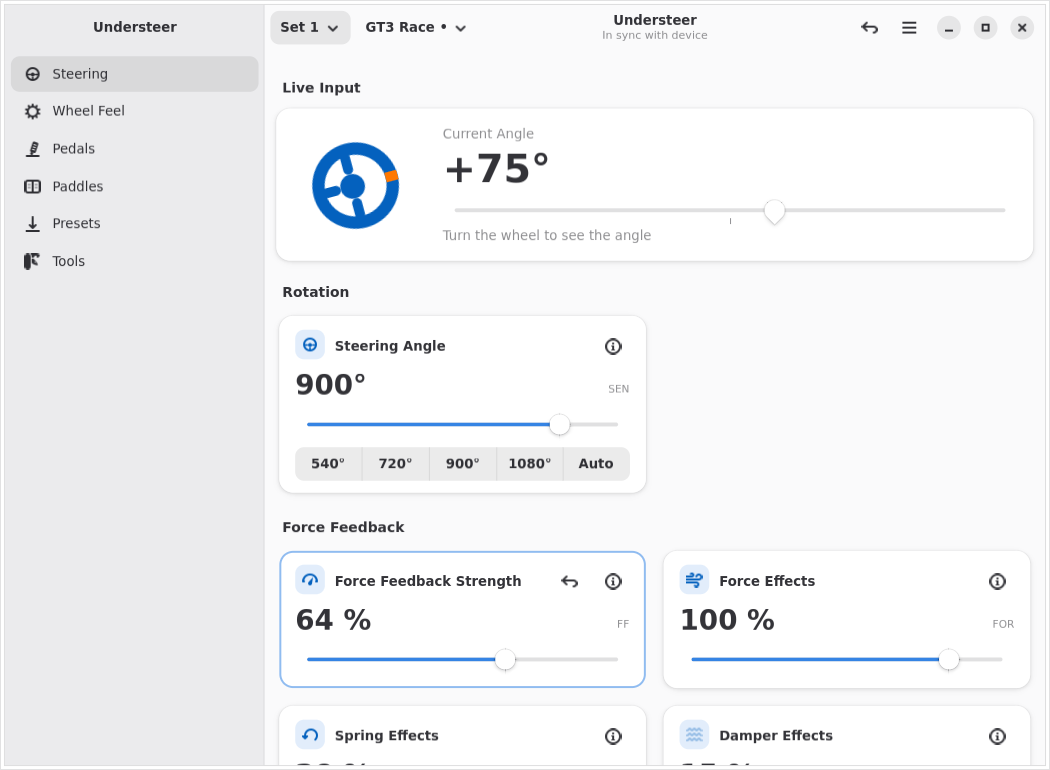
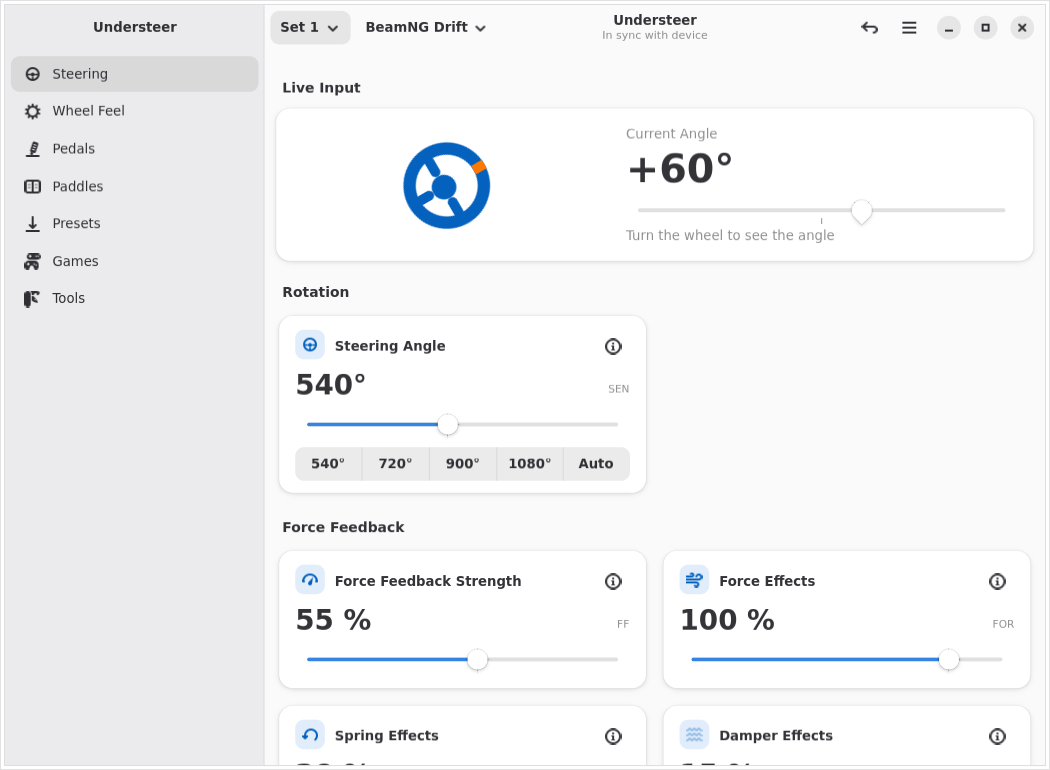
Show BeamNG.drive in the screenshots and examples
New README screenshots with BeamNG presets, plus one of the Games page
with BeamNG.drive running. The preset name placeholder and the code
examples use BeamNG as well.

diff --git a/understeer/config.py b/understeer/config.py
@@ -1,7 +1,7 @@
 """Presets and app settings in ~/.config/Understeer, without depending on GTK.
 
 Every *.json directly in CONFIG_DIR is a preset:
-    {"name": "GT3 Race", "values": {"FF": 70, "SEN": 900, ...}}
+    {"name": "BeamNG Drift", "values": {"FF": 55, "SEN": 540, ...}}
 """
 import hashlib
 import json
@@ -124,8 +124,8 @@ def set_setting(key, value):
 
 def load_games():
     """Games with their preset, e.g.
-    [{"game": "steam:805550", "name": "Assetto Corsa Competizione",
-      "preset": "GT3 Race.json", "auto": true}]
+    [{"game": "steam:284160", "name": "BeamNG.drive",
+      "preset": "BeamNG Drift.json", "auto": true}]
     "preset" is the file name of a preset in CONFIG_DIR, or None.
     "cover" (optional) is the file name of a picture the user chose, in
     CUSTOM_COVER_DIR; "steamgriddb" (optional) the game's SteamGridDB id.

diff --git a/understeer/ui/window.py b/understeer/ui/window.py
@@ -1240,7 +1240,7 @@ class TunerWindow(Adw.ApplicationWindow):
                     name=name))
 
     def _ask_preset_name(self):
-        entry = Gtk.Entry(placeholder_text=_("e.g. GT3 Race"),
+        entry = Gtk.Entry(placeholder_text=_("e.g. BeamNG Drift"),
                           activates_default=True)
         dialog = Adw.MessageDialog(
             transient_for=self, heading=_("Save as Preset"),

diff --git a/README.md b/README.md
@@ -16,6 +16,8 @@ A modern, GTK4/Libadwaita graphical utility for adjusting Fanatec wheel bases an
 - **Tiles in two sizes:** Every setting is a tile with its value in large type. Choose *Full* or *Compact* under *Tools → Appearance*; light and dark mode follow your system.
 - **Translations:** Available in English and German, chosen automatically or under *Tools → Appearance*. More languages can be added easily (see below).
 
+![Games page with BeamNG.drive running](docs/games.png)
+
 Understeer is based on [SimPower (FanatecLinux)](https://github.com/BenryBoi/FanatecLinux) by BenryBoi.
 
 ## Prerequisites
